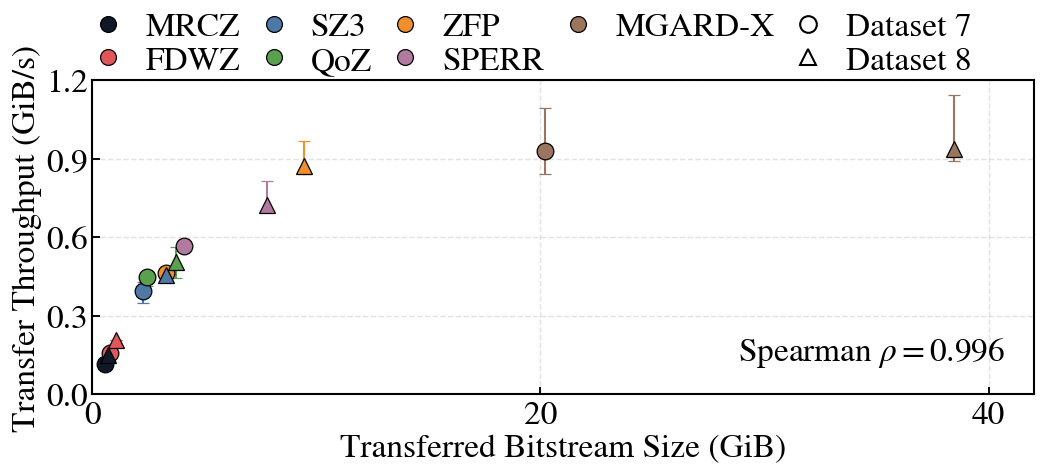
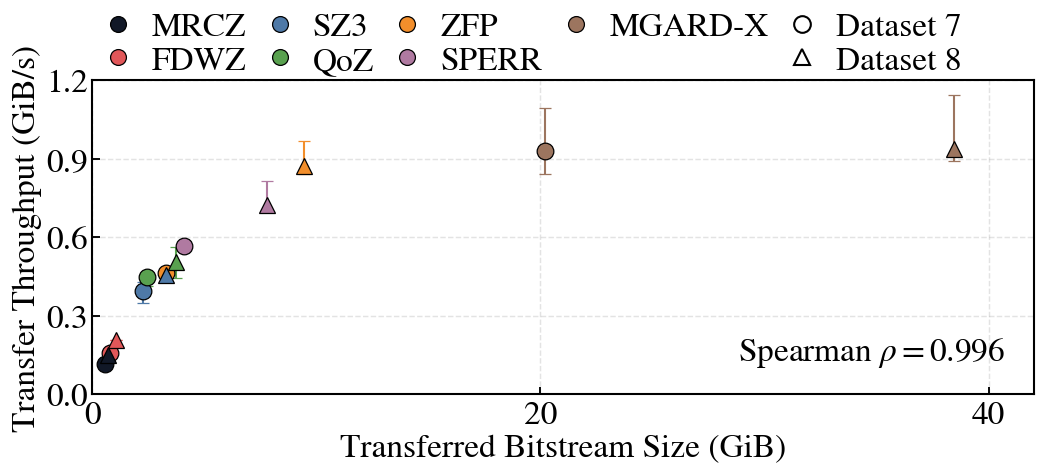
Tighten Figure 15 legend handles

Changed region(s): [[0.0918, 0.0294, 0.3977, 0.1765], [0.5201, 0.0294, 0.9484, 0.1471], [0.4283, 0.0294, 0.5201, 0.1471]]

diff --git a/py_funcs/plot_transfer_size_time.py b/py_funcs/plot_transfer_size_time.py
@@ -71,7 +71,7 @@ def main():
     layout_panel_row(figure,[axis],[PLOT_ASPECT_RATIO],bottom_pt=BOTTOM_PLOT_PT,panel_gap_pt=0,left_edge_gap_pt=LEFT_EDGE_GAP_PT,right_edge_gap_pt=RIGHT_EDGE_GAP_PT)
     figure_height_pt=figure.get_figheight()*MPL_POINTS_PER_INCH
     top_plot_pt=axis.get_position().y1*figure_height_pt
-    legend=figure.legend(handles=method_handles+[blank_handle]+dataset_handles,loc="lower center",ncol=5,frameon=False,bbox_to_anchor=(0.5,(top_plot_pt+1)/figure_height_pt),handletextpad=0.12,columnspacing=0.00,borderaxespad=0,borderpad=0)
+    legend=figure.legend(handles=method_handles+[blank_handle]+dataset_handles,loc="lower center",ncol=5,frameon=False,bbox_to_anchor=(0.5,(top_plot_pt+1)/figure_height_pt),handletextpad=0.00,columnspacing=0.00,borderaxespad=0,borderpad=0)
     set_legend_row_gap(legend)
     figure.canvas.draw()
     svg_output=os.path.join(result_dir,"transfer_size_time.svg")
